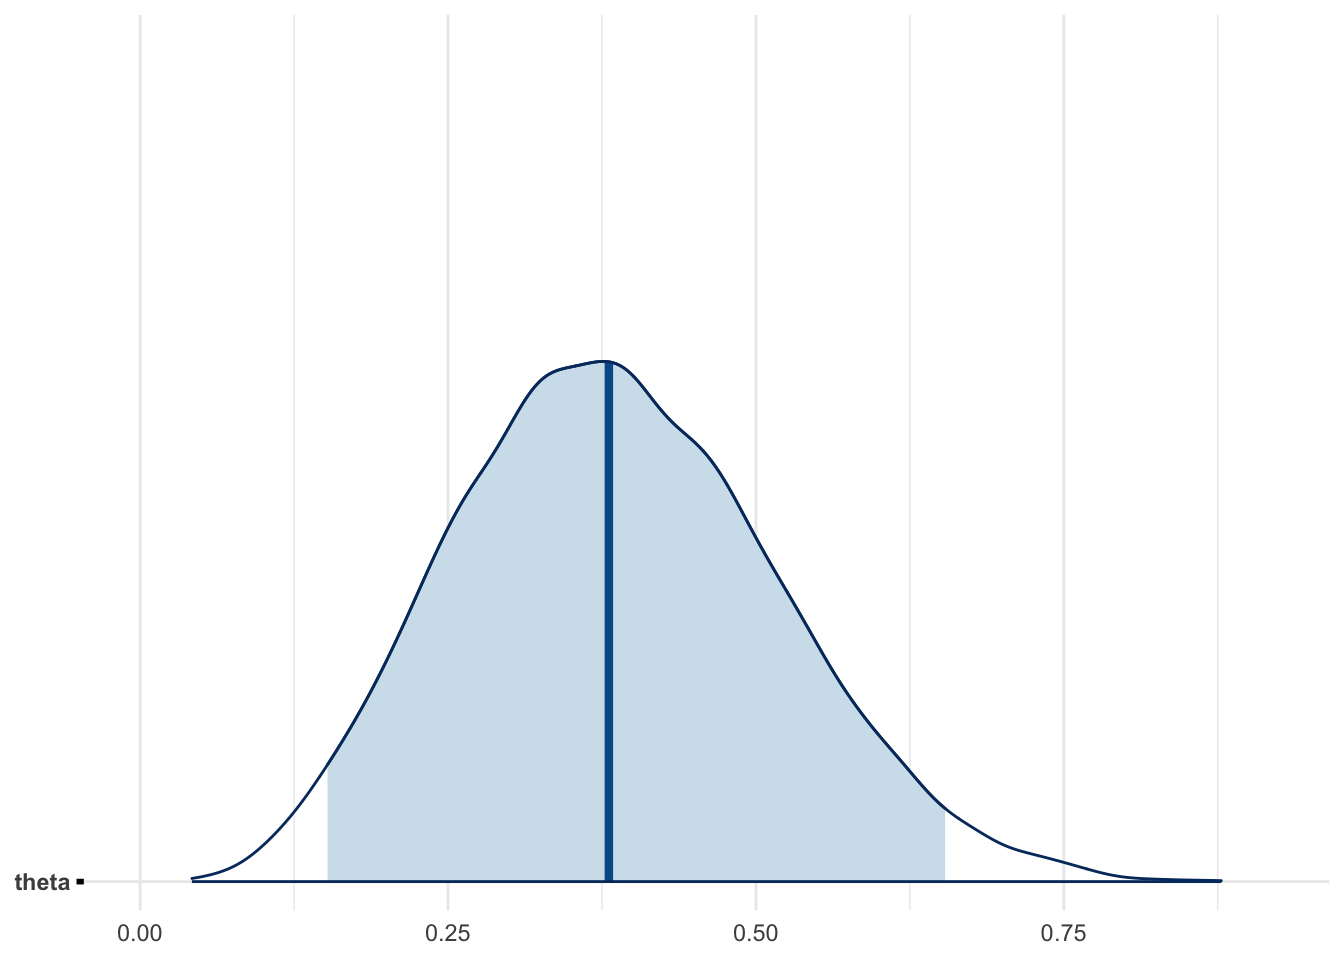
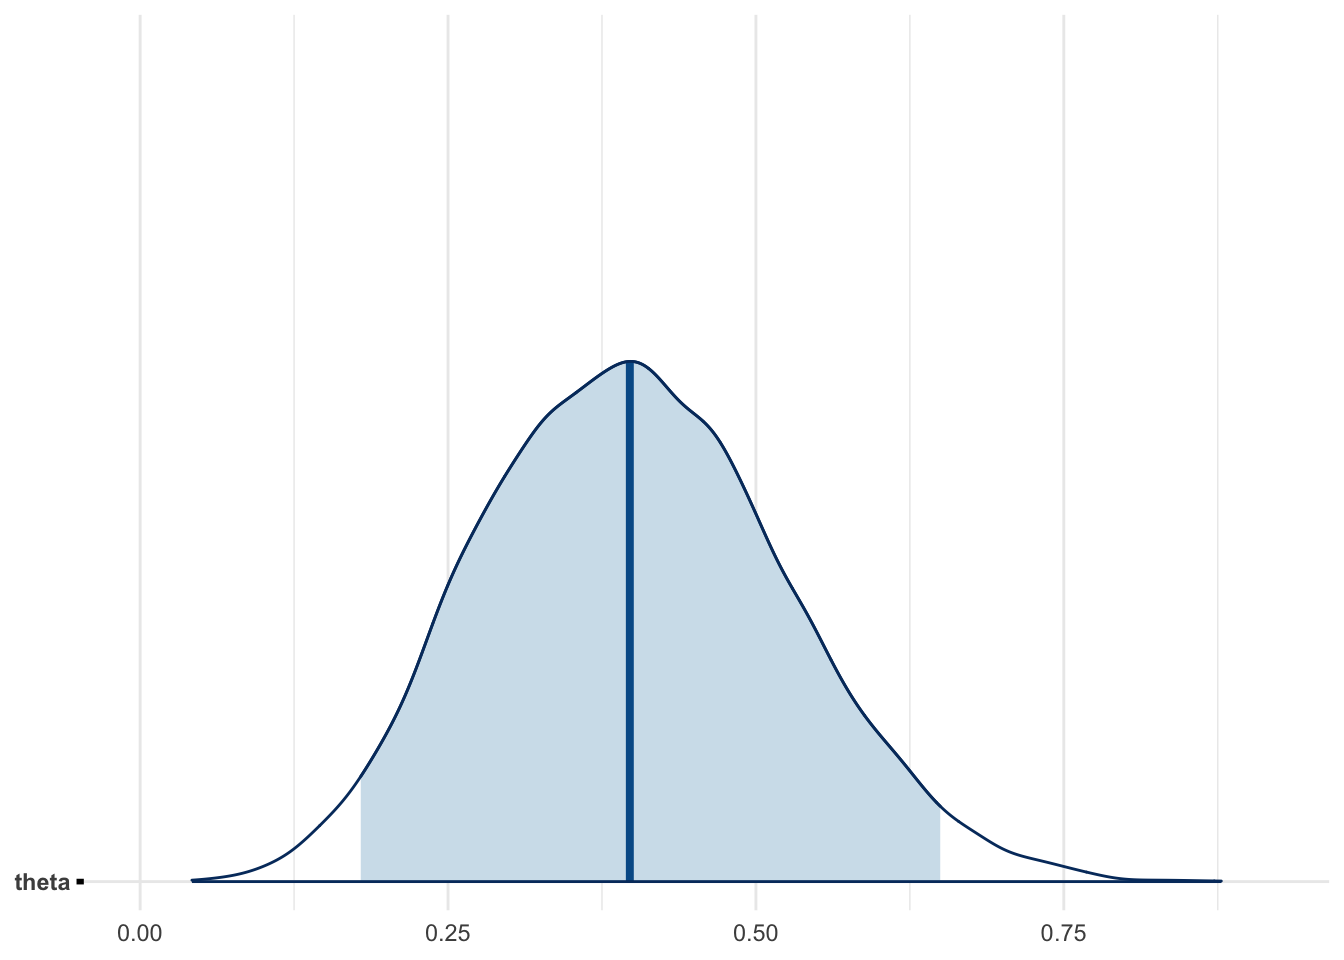
Adjust beta prior

diff --git a/pushpin.html b/pushpin.html
@@ -88,7 +88,7 @@ pre > code.sourceCode > span > a:first-child::before { text-decoration: underlin
   <li><a href="#poor-mans-posterior-resampling-of-observed-data" id="toc-poor-mans-posterior-resampling-of-observed-data" class="nav-link" data-scroll-target="#poor-mans-posterior-resampling-of-observed-data">“Poor man’s posterior”: resampling of observed data</a></li>
   <li><a href="#likelihood-inference" id="toc-likelihood-inference" class="nav-link" data-scroll-target="#likelihood-inference">Likelihood inference</a></li>
   <li><a href="#bayesian-inference-with-uniform-prior" id="toc-bayesian-inference-with-uniform-prior" class="nav-link" data-scroll-target="#bayesian-inference-with-uniform-prior">Bayesian inference with uniform prior</a></li>
-  <li><a href="#bayesian-inference-with-beta1-2-prior" id="toc-bayesian-inference-with-beta1-2-prior" class="nav-link" data-scroll-target="#bayesian-inference-with-beta1-2-prior">Bayesian inference with beta(1, 2) prior</a></li>
+  <li><a href="#bayesian-inference-with-beta2-3-prior" id="toc-bayesian-inference-with-beta2-3-prior" class="nav-link" data-scroll-target="#bayesian-inference-with-beta2-3-prior">Bayesian inference with beta(2, 3) prior</a></li>
   <li><a href="#comparison-of-bayesian-likelihood-and-frequentist-inferences-when-1010-flips-are-point-up" id="toc-comparison-of-bayesian-likelihood-and-frequentist-inferences-when-1010-flips-are-point-up" class="nav-link" data-scroll-target="#comparison-of-bayesian-likelihood-and-frequentist-inferences-when-1010-flips-are-point-up">Comparison of Bayesian, likelihood and frequentist inferences when 10/10 flips are point-up</a></li>
   </ul>
 </nav>
@@ -468,10 +468,10 @@ pre > code.sourceCode > span > a:first-child::before { text-decoration: underlin
 </div>
 </div>
 </section>
-<section id="bayesian-inference-with-beta1-2-prior" class="level2">
-<h2 class="anchored" data-anchor-id="bayesian-inference-with-beta1-2-prior">Bayesian inference with beta(1, 2) prior</h2>
+<section id="bayesian-inference-with-beta2-3-prior" class="level2">
+<h2 class="anchored" data-anchor-id="bayesian-inference-with-beta2-3-prior">Bayesian inference with beta(2, 3) prior</h2>
 <div class="cell">
-<div class="sourceCode cell-code" id="cb19"><pre class="sourceCode r code-with-copy"><code class="sourceCode r"><span id="cb19-1"><a href="#cb19-1" aria-hidden="true" tabindex="-1"></a>prior_beta <span class="ot">&lt;-</span> <span class="fu">dbeta</span>(theta_grid, <span class="at">shape1 =</span> <span class="dv">1</span>, <span class="at">shape2 =</span> <span class="dv">2</span>)</span>
+<div class="sourceCode cell-code" id="cb19"><pre class="sourceCode r code-with-copy"><code class="sourceCode r"><span id="cb19-1"><a href="#cb19-1" aria-hidden="true" tabindex="-1"></a>prior_beta <span class="ot">&lt;-</span> <span class="fu">dbeta</span>(theta_grid, <span class="at">shape1 =</span> <span class="dv">2</span>, <span class="at">shape2 =</span> <span class="dv">3</span>)</span>
 <span id="cb19-2"><a href="#cb19-2" aria-hidden="true" tabindex="-1"></a></span>
 <span id="cb19-3"><a href="#cb19-3" aria-hidden="true" tabindex="-1"></a>posterior_unnorm <span class="ot">&lt;-</span> prior_beta <span class="sc">*</span> likelihood</span>
 <span id="cb19-4"><a href="#cb19-4" aria-hidden="true" tabindex="-1"></a>posterior <span class="ot">&lt;-</span> posterior_unnorm <span class="sc">/</span> <span class="fu">sum</span>(posterior_unnorm)</span>
@@ -485,7 +485,7 @@ pre > code.sourceCode > span > a:first-child::before { text-decoration: underlin
 <span id="cb19-12"><a href="#cb19-12" aria-hidden="true" tabindex="-1"></a>  <span class="fu">pivot_longer</span>(<span class="sc">-</span>theta, <span class="at">names_to =</span> <span class="st">"fn"</span>, <span class="at">values_to =</span> <span class="st">"density"</span>)</span>
 <span id="cb19-13"><a href="#cb19-13" aria-hidden="true" tabindex="-1"></a></span>
 <span id="cb19-14"><a href="#cb19-14" aria-hidden="true" tabindex="-1"></a><span class="fu">gf_line</span>(density <span class="sc">~</span> theta, <span class="at">color =</span> <span class="sc">~</span> fn, <span class="at">data =</span> plot_df) <span class="sc">|&gt;</span></span>
-<span id="cb19-15"><a href="#cb19-15" aria-hidden="true" tabindex="-1"></a>  <span class="fu">gf_labs</span>(<span class="at">title =</span> <span class="st">"Bayesian inference with beta(1, 2) prior"</span>,</span>
+<span id="cb19-15"><a href="#cb19-15" aria-hidden="true" tabindex="-1"></a>  <span class="fu">gf_labs</span>(<span class="at">title =</span> <span class="st">"Bayesian inference with beta(2, 3) prior"</span>,</span>
 <span id="cb19-16"><a href="#cb19-16" aria-hidden="true" tabindex="-1"></a>          <span class="at">x =</span> <span class="fu">expression</span>(theta),</span>
 <span id="cb19-17"><a href="#cb19-17" aria-hidden="true" tabindex="-1"></a>          <span class="at">y =</span> <span class="st">"density"</span>)</span></code><button title="Copy to Clipboard" class="code-copy-button"><i class="bi"></i></button></pre></div>
 <div class="cell-output-display">
@@ -541,15 +541,15 @@ pre > code.sourceCode > span > a:first-child::before { text-decoration: underlin
 <tbody>
 <tr class="odd">
 <td style="text-align: left;">Posterior</td>
-<td style="text-align: right;">0.3804</td>
+<td style="text-align: right;">0.3974</td>
 <td style="text-align: right;">0.95</td>
-<td style="text-align: right;">0.1522</td>
-<td style="text-align: right;">0.6537</td>
+<td style="text-align: right;">0.1792</td>
+<td style="text-align: right;">0.6496</td>
 <td style="text-align: right;">1</td>
 <td style="text-align: right;">0.95</td>
 <td style="text-align: right;">0.45</td>
 <td style="text-align: right;">0.55</td>
-<td style="text-align: right;">0.208</td>
+<td style="text-align: right;">0.2367</td>
 </tr>
 </tbody>
 </table>
@@ -575,8 +575,8 @@ pre > code.sourceCode > span > a:first-child::before { text-decoration: underlin
 <span id="cb22-3"><a href="#cb22-3" aria-hidden="true" tabindex="-1"></a>likelihood <span class="ot">&lt;-</span> <span class="fu">dbinom</span>(successes, <span class="at">size =</span> n_flips, <span class="at">prob =</span> theta_grid)</span></code><button title="Copy to Clipboard" class="code-copy-button"><i class="bi"></i></button></pre></div>
 </div>
 <div class="cell">
-<div class="sourceCode cell-code" id="cb23"><pre class="sourceCode r code-with-copy"><code class="sourceCode r"><span id="cb23-1"><a href="#cb23-1" aria-hidden="true" tabindex="-1"></a><span class="co"># Bayesian inference with beta(1, 2) prior</span></span>
-<span id="cb23-2"><a href="#cb23-2" aria-hidden="true" tabindex="-1"></a>prior_beta <span class="ot">&lt;-</span> <span class="fu">dbeta</span>(theta_grid, <span class="at">shape1 =</span> <span class="dv">1</span>, <span class="at">shape2 =</span> <span class="dv">2</span>)</span>
+<div class="sourceCode cell-code" id="cb23"><pre class="sourceCode r code-with-copy"><code class="sourceCode r"><span id="cb23-1"><a href="#cb23-1" aria-hidden="true" tabindex="-1"></a><span class="co"># Bayesian inference with beta(2, 3) prior</span></span>
+<span id="cb23-2"><a href="#cb23-2" aria-hidden="true" tabindex="-1"></a>prior_beta <span class="ot">&lt;-</span> <span class="fu">dbeta</span>(theta_grid, <span class="at">shape1 =</span> <span class="dv">2</span>, <span class="at">shape2 =</span> <span class="dv">3</span>)</span>
 <span id="cb23-3"><a href="#cb23-3" aria-hidden="true" tabindex="-1"></a>posterior_unnorm <span class="ot">&lt;-</span> prior_beta <span class="sc">*</span> likelihood</span>
 <span id="cb23-4"><a href="#cb23-4" aria-hidden="true" tabindex="-1"></a>posterior <span class="ot">&lt;-</span> posterior_unnorm <span class="sc">/</span> <span class="fu">sum</span>(posterior_unnorm)</span>
 <span id="cb23-5"><a href="#cb23-5" aria-hidden="true" tabindex="-1"></a></span>
@@ -589,7 +589,7 @@ pre > code.sourceCode > span > a:first-child::before { text-decoration: underlin
 <span id="cb23-12"><a href="#cb23-12" aria-hidden="true" tabindex="-1"></a>  <span class="fu">pivot_longer</span>(<span class="sc">-</span>theta, <span class="at">names_to =</span> <span class="st">"fn"</span>, <span class="at">values_to =</span> <span class="st">"density"</span>)</span>
 <span id="cb23-13"><a href="#cb23-13" aria-hidden="true" tabindex="-1"></a></span>
 <span id="cb23-14"><a href="#cb23-14" aria-hidden="true" tabindex="-1"></a><span class="fu">gf_line</span>(density <span class="sc">~</span> theta, <span class="at">color =</span> <span class="sc">~</span> fn, <span class="at">data =</span> plot_df) <span class="sc">|&gt;</span></span>
-<span id="cb23-15"><a href="#cb23-15" aria-hidden="true" tabindex="-1"></a>  <span class="fu">gf_labs</span>(<span class="at">title =</span> <span class="st">"Bayesian inference with beta(1, 2) prior"</span>,</span>
+<span id="cb23-15"><a href="#cb23-15" aria-hidden="true" tabindex="-1"></a>  <span class="fu">gf_labs</span>(<span class="at">title =</span> <span class="st">"Bayesian inference with beta(2, 3) prior"</span>,</span>
 <span id="cb23-16"><a href="#cb23-16" aria-hidden="true" tabindex="-1"></a>          <span class="at">x =</span> <span class="fu">expression</span>(theta),</span>
 <span id="cb23-17"><a href="#cb23-17" aria-hidden="true" tabindex="-1"></a>          <span class="at">y =</span> <span class="st">"density"</span>)</span></code><button title="Copy to Clipboard" class="code-copy-button"><i class="bi"></i></button></pre></div>
 <div class="cell-output-display">
@@ -645,10 +645,10 @@ pre > code.sourceCode > span > a:first-child::before { text-decoration: underlin
 <tbody>
 <tr class="odd">
 <td style="text-align: left;">Posterior</td>
-<td style="text-align: right;">0.8639</td>
+<td style="text-align: right;">0.8138</td>
 <td style="text-align: right;">0.95</td>
-<td style="text-align: right;">0.6116</td>
-<td style="text-align: right;">0.979</td>
+<td style="text-align: right;">0.5726</td>
+<td style="text-align: right;">0.955</td>
 <td style="text-align: right;">1</td>
 <td style="text-align: right;">0.95</td>
 <td style="text-align: right;">0.45</td>
